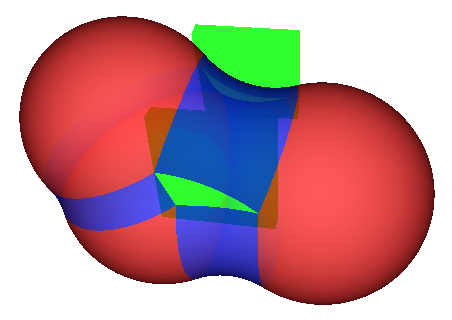
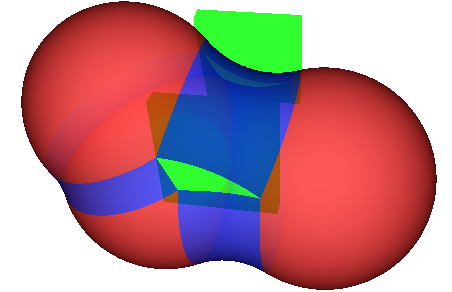
cont

diff --git a/pvis2016/part/visualization.tex b/pvis2016/part/visualization.tex
@@ -1,15 +1,16 @@
 \label{sec:vis}
 
-To enable our transparent visualization, we require an ordered list of fragments for each screen pixel. This list of fragments is also commonly referred as an A-buffer. We implemented the A-buffer using per-pixel linked lists~\cite{yang2010real}. In our case, the A-buffer fragments represent three types of surface patches analytically computed for a given ray.
+To enable the transparent visualization, we require an ordered list of fragments for each screen pixel. 
+This list of fragments is also commonly referred as an A-buffer. 
+We implemented the A-buffer using per-pixel linked lists~\cite{yang2010real}. 
+In our case, the A-buffer fragments represent three types of surface patches analytically computed for a given ray.
 
 \subsection{Ray-casting}
 \label{sec:spherical-patches}
 To form fragments of each surface patch we employ a ray-casting technique.
-\textcolor{green}{
-To provide high performance, the ray-patch intersection is computed analytically.
-For each patch, we compute a tight oriented bounding box (OBB) which we project onto the image as a splat (Fig~\ref{fig:obb}).
-This way, we lower the number of intersections tests that will be performed.
-}
+To reach high performance, the ray-patch intersection is computed analytically.
+For each patch, we compute a tight oriented bounding box (OBB) which we project onto the image as a splat (Fig.~\ref{fig:obb}).
+This way, we lower the number of intersection tests that will be performed.
 
 \begin{figure}[htp]
   \centering
@@ -28,26 +29,22 @@ This way, we lower the number of intersections tests that will be performed.
 	\label{fig:obb}
 \end{figure}
 
-\textcolor{green}{
-The ray-casting is implemented as GLSL shaders.
+The ray-casting is implemented using GLSL shaders.
 The triangles for the OBB faces are generated on the GPU using a geometry shader.
-The OBB is computed from a unit cube for which we compute position, rotation and scale according to a patch that will by bound by it.
-For a spherical triangle, a cutting plane that contains triangle's vertices is computed.
-Then, the OBB's position, rotation and scale are computed such that the OBB bounds the smaller part of the sphere when cut by the plane.
+The OBB is computed from a unit cube for which we compute position, rotation, and scale according to a patch that will by bounded by it.
+For a spherical triangle, a cutting plane that contains the triangle's vertices is computed.
+Then, the OBB's position, rotation, and scale are computed such that the OBB bounds the smaller part of the sphere when cut by the plane.
 Here, we assume that the spherical triangle always fits into a hemisphere.
-OBBs for spherical patches are computed in a similar way.
+The OBBs for spherical patches are computed in a similar way.
 The difference is in the calculation of the cutting plane.
 The plane's normal is computed using midpoints of arcs that bound a patch.
-The end points of these arcs are used to position the cutting plane such that the half-space defined by it contains all the arc end points.
-}
+The end points of these arcs are used to position the cutting plane so the half-space defined by it contains all the arc end points.
 
-\textcolor{green}{
-For toroidal patches the orientation of their OBBs is computed first.
+For the toroidal patches the orientation of their OBBs is computed first.
 We compute a vector defined by the centers of the spheres that contain bounding triangles of a toroidal patch.
-We use this vector together with the axis of a torus as a second vector to compute a third one -- perpendicular to both previous vectors.
-These three vectors define axes of an OBB.
-Finally, extrema points of a patch w.r.t. its OBB orientation are found and OBB's position and scale are computed based on these points.
-}
+We use this vector together with the axis of a torus as a second vector to compute a third one -- perpendicular to the two vectors.
+These three vectors define the axes of an OBB.
+Finally, the extreme points of a patch w.r.t. its OBB orientation are found and the OBB's position and scale are computed based on these points.
 
 In 2013, Kauker et al.~\cite{kauker2013rendering} proposed to ray-cast a toroidal patch using a saddle part of a torus and two clipping planes defined by its delimiting triangles (Fig.~\ref{fig:torus}).
 \begin{figure}[htp]
@@ -63,8 +60,8 @@ In 2013, Kauker et al.~\cite{kauker2013rendering} proposed to ray-cast a toroida
     \includegraphics[width=1.3in]{image/torus-planes.png}
     %\caption{Clipping by planes defined by spherical triangles.}
   \end{subfigure}
-	\caption{Ray-tracing a toroidal patch. Left: The saddle part of the torus (blue) is cut by the visibility sphere (yellow).
-Right: The patch (blue) is cut from the whole toroidal ring by clipping planes (yellow) defined by spherical triangles (green).}
+	\caption{Ray-tracing a toroidal patch. Left: the saddle part of the torus (blue) is cut by the visibility sphere (yellow).
+Right: the patch (blue) is cut from the whole toroidal ring by clipping planes (yellow) defined by the spherical triangles (green).}
 	\label{fig:torus}
 \end{figure}
 
@@ -73,7 +70,7 @@ Additionally, we set normals of these clipping planes so that they are facing to
 We use these two operations to clip the patches whose angular length around the torus axis is either at most $\pi$ (\textit{AND}) or greater (\textit{OR}).
 The \textit{AND} and \textit{OR} operations are defined as their name suggests.
 The \textit{AND} operation leaves only fragments that appear on the positive sides of both clipping planes, while the \textit{OR} operation leaves fragments that appear on the positive side of the first or the second clipping plane.
-\textcolor{green}{The ray-torus intersection is computed as described by Herbison-Evans~\cite{herbisonevans1995solving}.}
+The ray-torus intersection is computed as described by Herbison-Evans~\cite{herbisonevans1995solving}.
 
 %and, moreover, we modify the data structure being used in the original algorithm to store and retrieve all spherical triangles incident to a torus (Fig.~\ref{fig:hashing}). In order to get all neighboring triangles for a torus, we hash the triangles by three keys; i.e., one for each torus which is connected to a triangle.
 %For this purpose, we implemented a simple hash table, which is based on linear addressing scheme \cite{alcantara2011efficient}.
@@ -86,25 +83,22 @@ The \textit{AND} operation leaves only fragments that appear on the positive sid
 %\end{figure}
 %This allows us, to ray-cast toroidal patches directly instead of tori.
 
-\textcolor{green}{
-Ray-casting the sphere is a trivial task; nevertheless, there can one or more spherical patches that belong to the same surface atom sphere while these patches may form different surfaces.
-To avoid obvious rendering issues, i.e., distinct coloring, transparency, or visibility, we perform ray-casting of each patch separately.
+Ray-casting the sphere is a trivial task. 
+However, there can be one or more spherical patches that belong to the same surface atom sphere but they may form different surfaces.
+To avoid obvious rendering issues, i.e., distinct coloring, transparency, or visibility, we perform the ray-casting of each patch separately.
 %This allows us to visually distinguish between different surface components.
-Regarding the separation of patches, we experimented with applying an odd-even rule for polygons~\cite{shimrat1962algorithm} and with computing a convex polyhedrons bounds.
-We decided for the bounding volume solution because regarding the point-in-polygon (PIP) test there were non-trivial special cases, e.g., a ray going through a polygon's vertex or a very short edge, that had to be handled.
-The special cases then resulted in pixel artifacts in the final image.
+Regarding the separation of patches, we experimented with applying an odd-even rule for polygons~\cite{shimrat1962algorithm} and with computing a convex polyhedron bounds.
+We decided for the bounding volume solution because regarding the point-in-polygon (PIP) test there were non-trivial special cases, e.g., a ray going through a polygon's vertex or a very short edge.
+These special cases then resulted in pixel artifacts in the final image.
 Moreover, the implementation of the PIP test was performance demanding due to many texture memory accesses.
 On the other hand, the computation of a patch's bounding volume is based on the fact, that the spherical patch is bounded by planes defined by its bounding arcs.
 This way, we have a polyhedron $B_{poly}$ which bounds all the patches belonging to an atom sphere.
 For each patch, we add another plane $p_{add}$ which cuts $B_{poly}$ in order to keep only the volume containing that patch.
-As $p_{add}$, we choose an appropriate plane among planes in $P_{bb}$ that contain faces of the bounding box used for \textcolor{red}{splatting} the patch.
-In fact, by \textcolor{red}{splatting}, we clip $B_{poly}$ by all the six planes in $P_{bb}$.
-}
+$p_{add}$ is selected as an appropriate plane among planes of the OBB that was used for splatting the patch.
+In fact, by splatting, we clip $B_{poly}$ by all the six planes of the OBB.
 
-\textcolor{green}{
-In the resulting image, there can still occur pixel artifacts caused by numerical issues when ray-casting tori.
+In the resulting image, there can still occur pixel artifacts caused by numerical issues when ray-casting the tori.
 These numerical issues arise when computing an intersection of a ray with a torus.
-}
 
 %\subsection{Ambient Occlusion Opacity Modulation}
 %Borland~\cite{borland2011ambient} proposed to utilize ambient occlusion (AO) values to alter the opacity. Motivated by his approach, we exploit the ambient occlusion values as well. Since, we would like to maintain fast rendering performance, we need to remedy the issue of having an object space technique to evaluate the AO values. In the former work of Borland, the performance was considered a less important factor, which allows him to exploit the full object space AO evaluation. Here, we opted for the most recent approach, proposed by Grottel et al.~\cite{grottel2012object}, which renders ambient occlusion values to a $3D$ grid containing an estimate of the volume area of atoms located inside a voxel. Although this approach only reflects the volume of atoms and not the volume area of the molecular surface, we find it as a good trade off between the visual precision and the performance measure. Note, in addition, these values are not employed directly, but rather as opacity modulators instead, which defines the opacity as follows:
@@ -160,4 +154,4 @@ Additionally, we neglect areas of spherical and toroidal patches since their inf
 %Therefore, the cavity area we compute is \textcolor{red}{underestimated -- maybe an equation?}.
 Naturally, this observation does not hold for the molecular surface.
 %\textcolor{red}{What about coloring?}
-\textcolor{green}{We also do not handle the case when the triangles intersect each other thus clipping themselves.}
+We also do not handle the case when the triangles intersect each other thus they are clipping themselves.

diff --git a/pvis2016/part/oit4cb.tex b/pvis2016/part/oit4cb.tex
@@ -1,5 +1,5 @@
-In this section we describe our approach to the extraction of molecular surface and surfaces of inner cavities which we denote as surface features.
-First we present the algorithms for the computation of molecular surfaces and cavities and then we show how we deal with special cases occurring within the surface construction.
+%In this section we describe our approach to the extraction of molecular surface and surfaces of inner cavities which we denote as surface features.
+In this section we present the algorithms for the computation of molecular surfaces and cavities and then we show how we deal with special cases occurring within the surface construction.
 
 %Extended CB Algorithm
 \subsection{Surface computation}
@@ -26,14 +26,14 @@ iii) \textit{spherical patches}, enclosed by edges of two or more toroidal patch
   \centering
   \begin{subfigure}[t]{0.48\columnwidth}
     \centering
-    \includegraphics[width=1.5in]{image/cb-krone.png}
+    \includegraphics[width=1.3in]{image/cb-krone.png}
    % \caption{The original method \cite{krone2011parallel} rendered with transparency.}
 	%	\label{fig:cb-krone}
   \end{subfigure}%
   ~
   \begin{subfigure}[t]{0.48\columnwidth}
     \centering
-    \includegraphics[width=1.5in]{image/cb-oit.png}
+    \includegraphics[width=1.3in]{image/cb-oit.png}
 		%\label{fig:cb-oit}
   \end{subfigure}
 	
@@ -244,14 +244,14 @@ Otherwise, these fragments would create a false surface layer between a torus an
   \centering
   \begin{subfigure}[t]{0.55\columnwidth}
     \centering
-    \includegraphics[height=1.4in]{image/isolated-cutaway2.png}
+    \includegraphics[height=1.3in]{image/isolated-cutaway2.png}
     %\caption{An \textit{isolated} torus.}
 		%\label{fig:isolated-cutaway}
   \end{subfigure}%
   \quad
   \begin{subfigure}[t]{0.4\columnwidth}
     \centering
-    \includegraphics[height=1.4in]{image/isolated-hole.png}
+    \includegraphics[height=1.3in]{image/isolated-hole.png}
     %\caption{A hole in a spherical patch.}
   \end{subfigure}
 \caption{Example of an isolated torus between two spheres.
